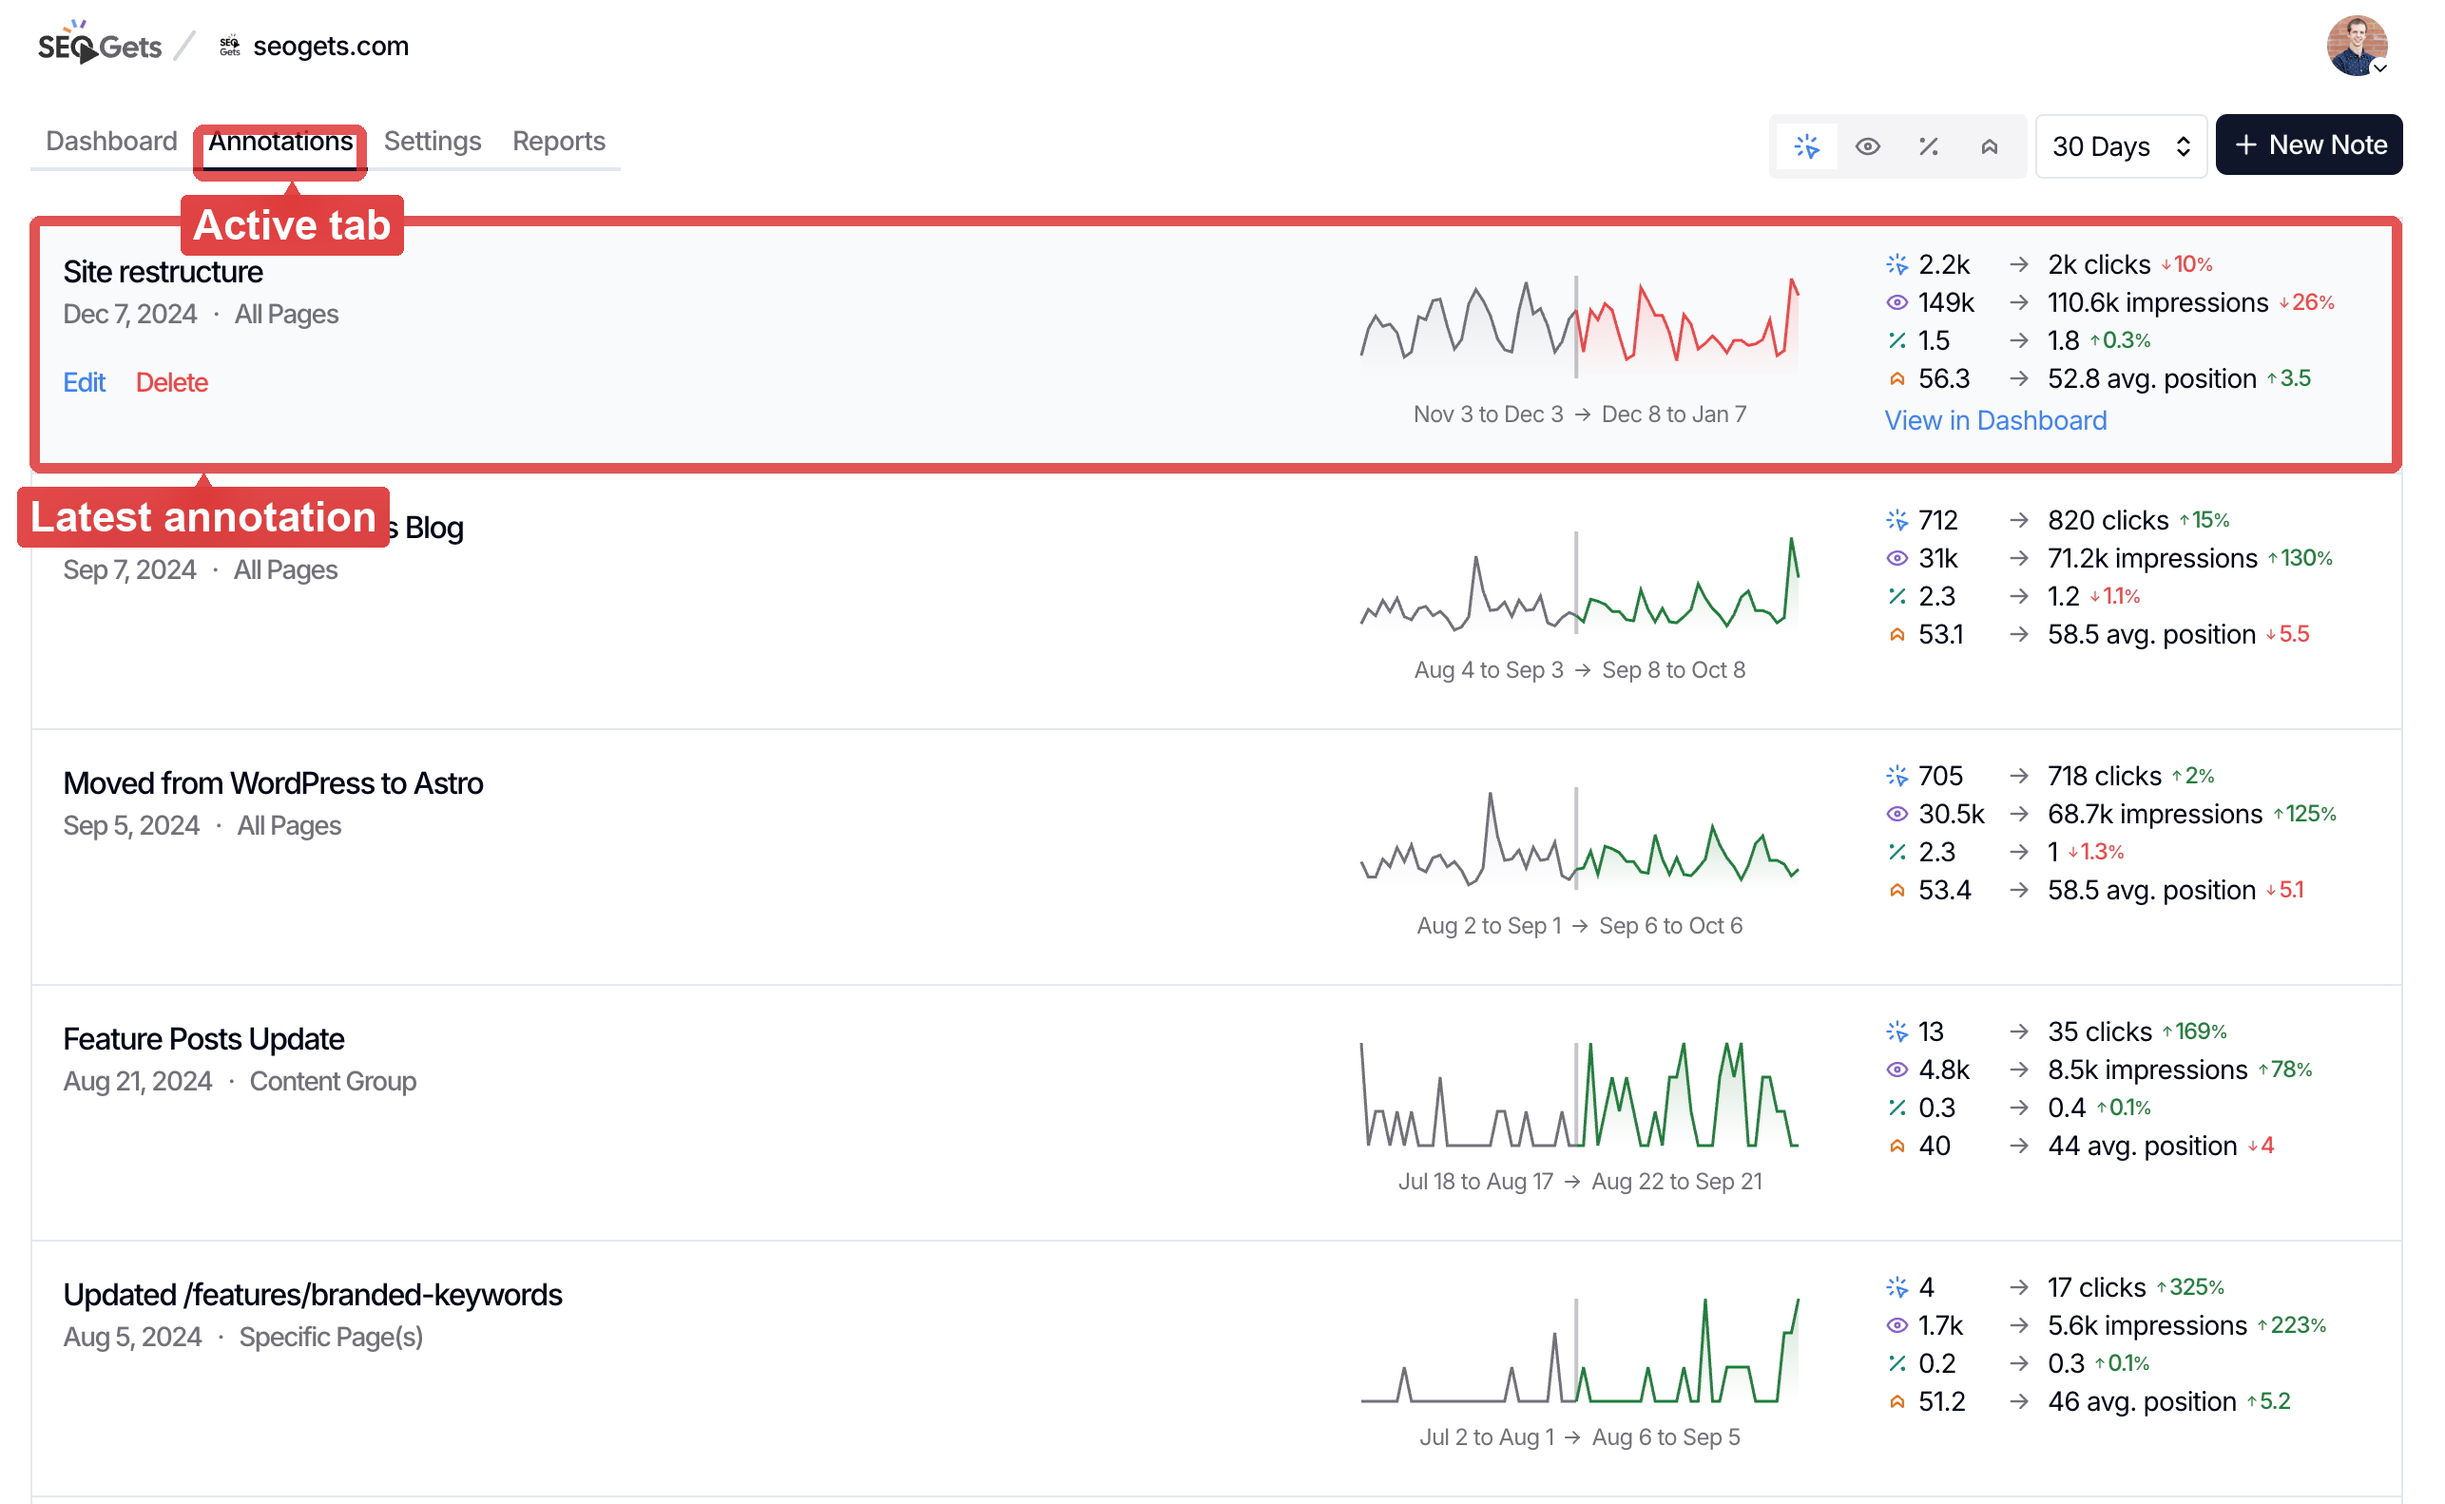
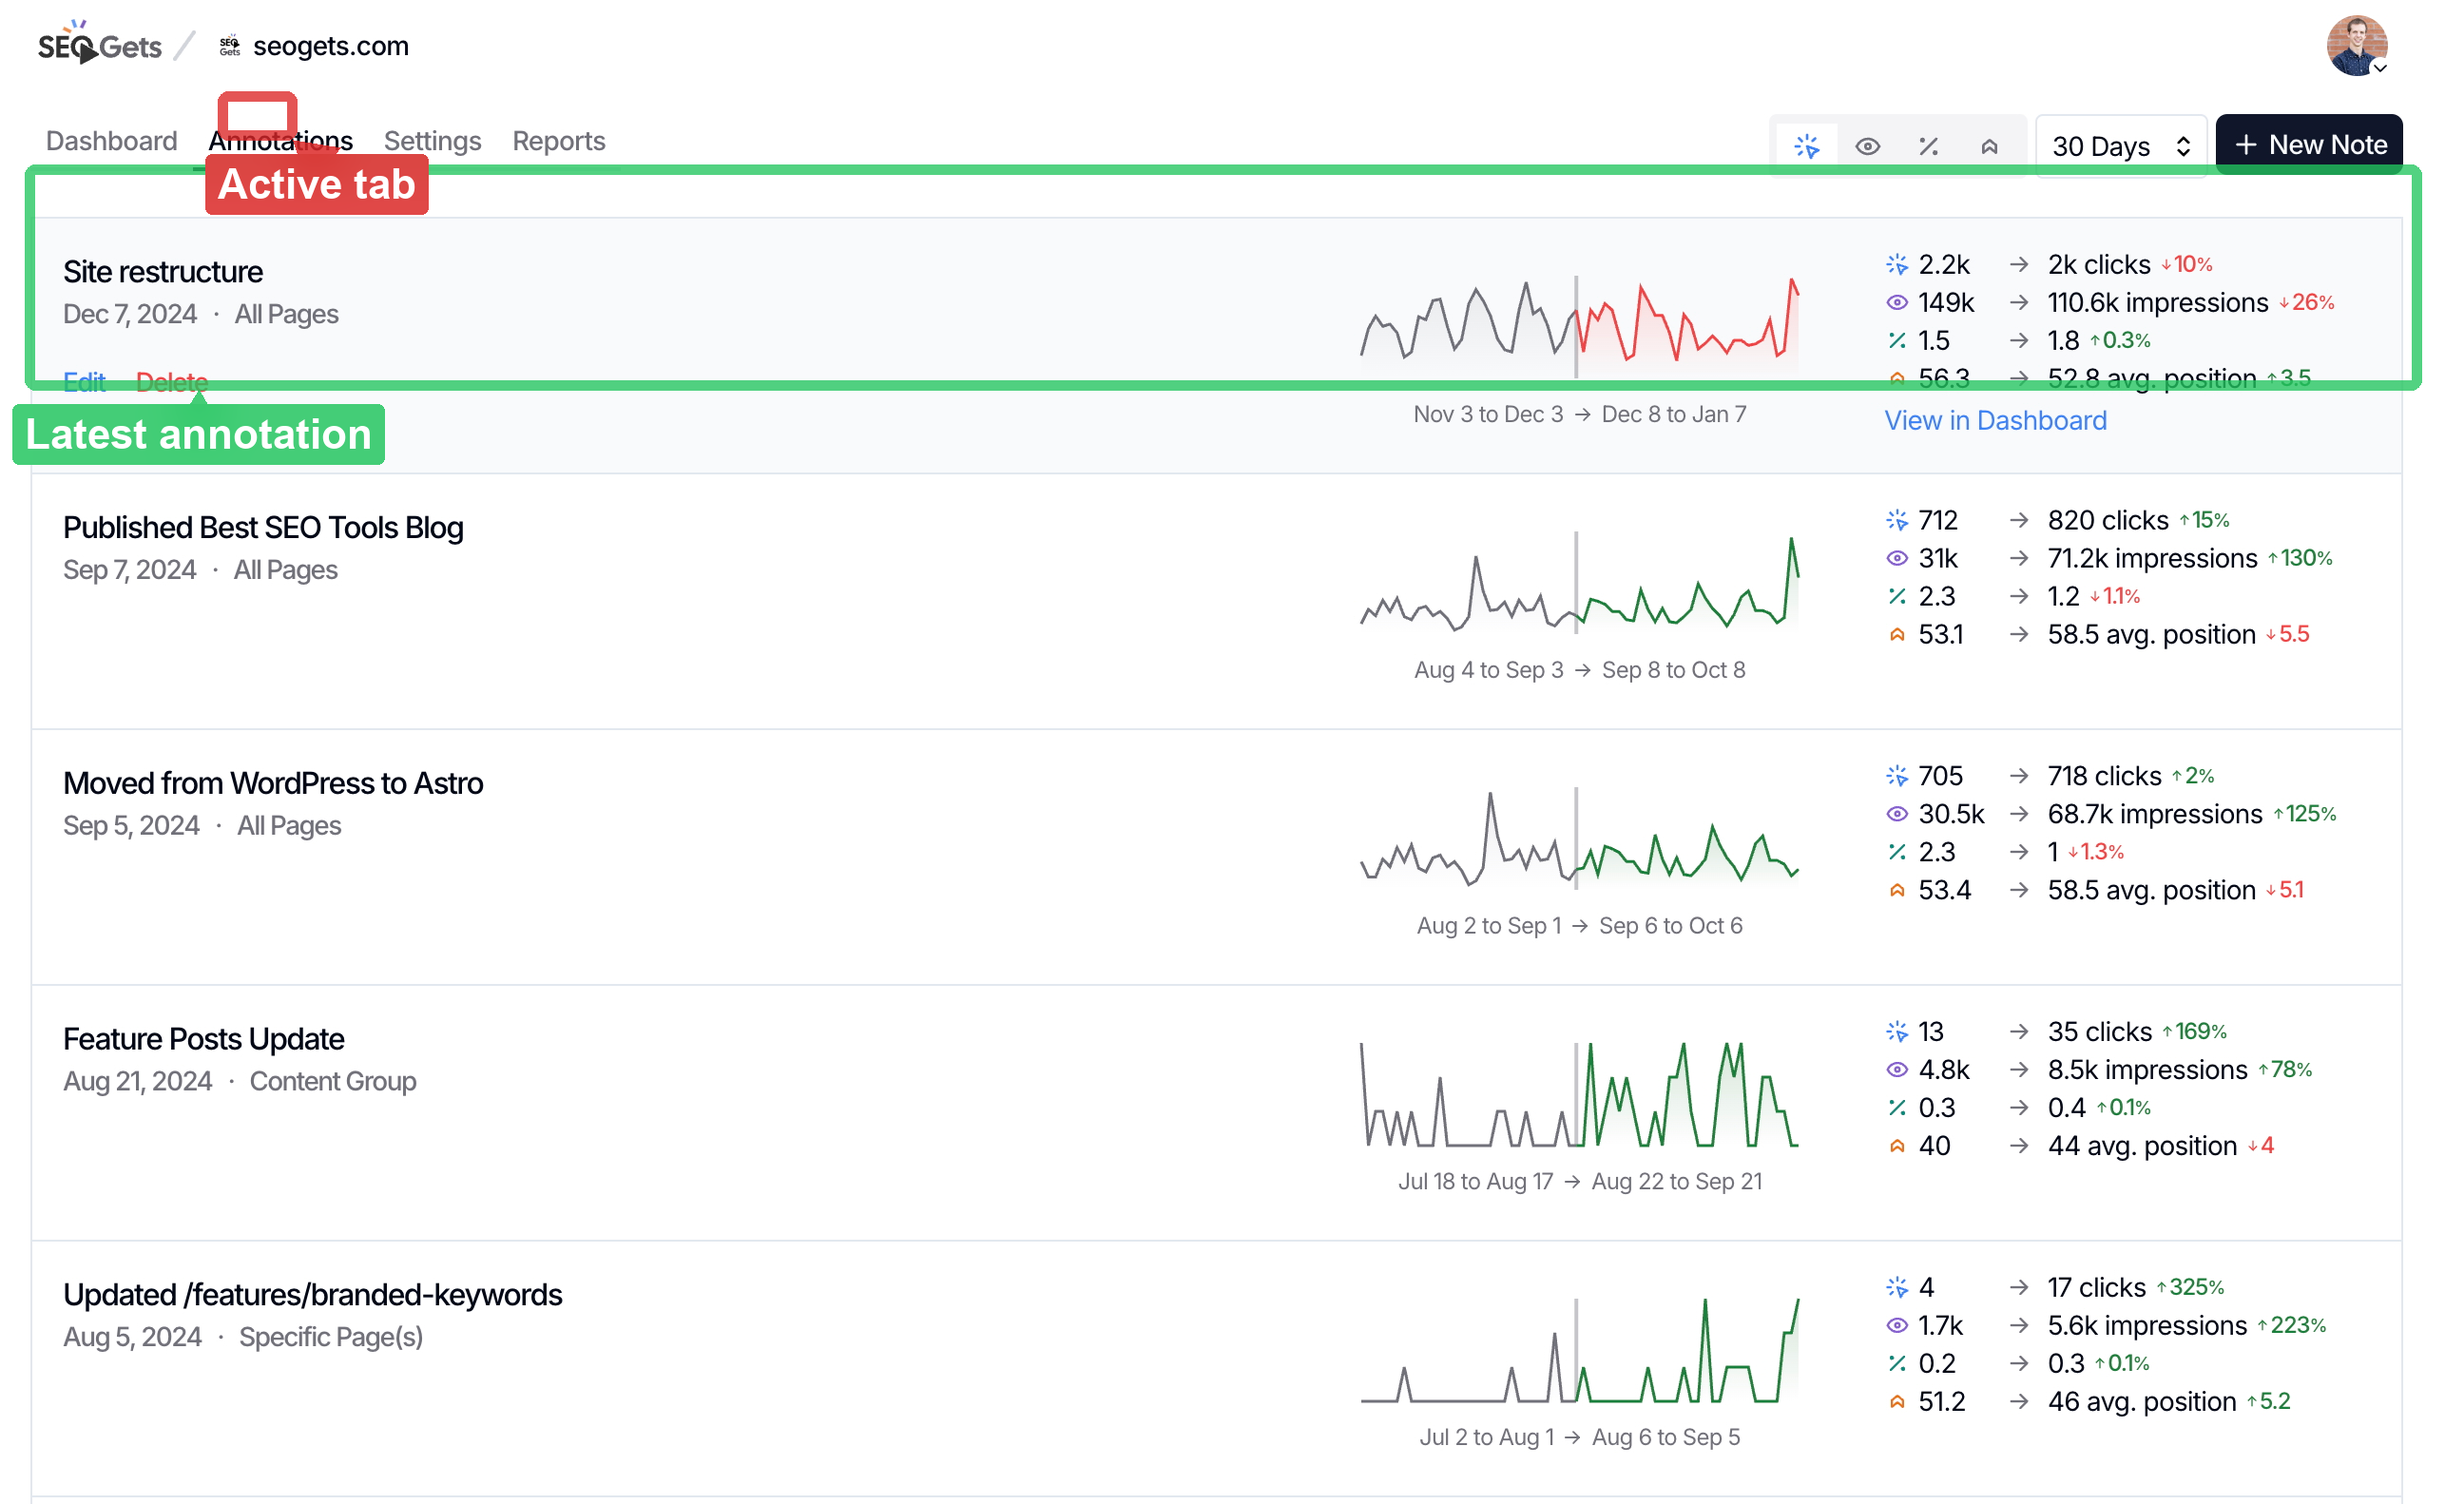
Reject giant bboxes; tighten vision prompts
Add a safeguard against huge, likely-hallucinated bounding boxes by introducing MAX_BBOX_AREA_FRACTION and _bbox_looks_hallucinated in marker/parser.py. Overhaul the vision system and refine prompts in marker/vision.py to enforce strict JSON-only output, precise normalized bbox rules, color/label conventions, and clearer locating/refinement instructions (including examples). Also add out.png and update test_2_annotated.png.

Changed region(s): [[0.0, 0.0619, 0.9953, 0.3717]]

diff --git a/marker/vision.py b/marker/vision.py
@@ -89,47 +89,101 @@ RESPONSE_SCHEMA = {
 
 SYSTEM_PROMPT = """You are a UI screenshot annotation assistant.
 
-You receive a screenshot and a numbered list of annotation requests written
-in free-form natural language. For each request you must:
+For each annotation request you receive, locate the target UI element in the
+screenshot and return its bounding box. The renderer draws the rectangle,
+arrow, and label automatically — your job is JUST to locate and tag.
 
-1. Locate the target UI element described in the request.
-2. Extract the user's desired LABEL TEXT — the short caption to render next
-   to the highlighted element. Look for explicit phrases like
-   "label 'Customer Details'", "labeled 'Activity Log'", "with caption ...",
-   or "tagged ...". If the user did not specify any label text, return null.
-3. Return the bbox in NORMALIZED coordinates [0.0, 1.0], where (0, 0) is
-   the top-left of the image and (1, 1) is the bottom-right. The renderer
-   converts these to absolute pixels.
+============================================================
+OUTPUT FORMAT — FOLLOW EXACTLY. NO EXCEPTIONS.
+============================================================
 
-PRECISION RULES — these matter as much as locating the right element:
+1. Return JSON ONLY. No prose, no markdown, no code fences, no commentary.
+2. Match the schema exactly. EVERY required field must appear in EVERY
+   annotation object, even when the value is null or an empty string.
+3. Return EXACTLY ONE annotation per request, in the original order.
+   request_index = the [N] number from the input. request_text = the request
+   string copied verbatim (do not paraphrase).
+4. Coordinates are NORMALIZED floats in the range [0.0, 1.0]. They are NOT
+   pixels, NOT percentages, NOT 0–100. (0, 0) is the top-left of the image
+   and (1, 1) is the bottom-right.
+   Example: a target whose pixel rect is (100, 50, 400, 200) on a 1000×800
+   image becomes {"x": 0.10, "y": 0.0625, "width": 0.40, "height": 0.25}.
+5. color MUST be one of:
+     (a) null  — preferred. Use this when the request did not request a
+         specific color. The renderer applies the default red.
+     (b) A 7-character hex string starting with "#", e.g. "#DC2626",
+         "#1F8FFF", "#22C55E".
+   NEVER a CSS color name ("red", "blue", "green"), NEVER an "rgb(...)"
+   string, NEVER three-digit shorthand like "#f00". Hex or null only.
+6. label_text MUST be one of:
+     (a) null  — when the request did not specify a caption.
+     (b) The exact short caption inside the user's quotes. Look for cues
+         like   label 'X' / labeled "X" / with caption X / tagged X.
+         Return ONLY the caption text — never the whole request sentence.
+   Keep it under ~40 characters when possible.
+7. not_found = true is the CORRECT answer whenever the target is missing,
+   ambiguous, or you are not confident you can locate it precisely. In that
+   case set bbox = null and put a one-line reason in notes
+   (e.g., "no element matching 'export button' is visible").
+   DO NOT GUESS. DO NOT return a near-full-image bbox as a placeholder.
+   DO NOT pick the closest-looking element. An empty annotation is far better
+   than a wrong one. Renderer will skip not_found items, so they cost
+   nothing.
+   When not_found is false, bbox MUST be a populated object that genuinely
+   contains the target.
+8. notes is always a string — use "" when not_found is false and you have
+   nothing to add.
+
+============================================================
+LOCATING THE TARGET — PRECISION RULES
+============================================================
 
 - Determine each of the four edges INDEPENDENTLY. Find the target's LEFT edge
   (smallest x), TOP edge (smallest y), RIGHT edge (largest x), BOTTOM edge
-  (largest y), then compute x = left, y = top, width = right - left,
-  height = bottom - top. Do not estimate x and width together — that produces
-  systematic horizontal offset.
-- For bordered elements (cards, panels, sections, table rows, modals): align
-  bbox edges WITH the visible border stroke. The drawn rectangle should sit
-  on top of the existing border line, not inside the content area and not
-  floating in the surrounding margin.
-- Include the element's full extent — header/title bar, padding inside the
-  border, and any pinned footer all belong inside the bbox.
+  (largest y). Then x = left, y = top, width = right - left,
+  height = bottom - top. Do NOT estimate x and width together — that
+  produces a systematic horizontal offset.
+- For bordered elements (cards, panels, sections, table rows, modals,
+  buttons): align bbox edges WITH the visible border stroke. The drawn
+  rectangle should land on top of the existing border line — not inside the
+  content area, not floating in the surrounding margin.
+- Include the element's full extent — header / title bar, internal padding,
+  pinned footer all belong inside the bbox.
 - For elements without a visible border (text labels, icons, plain regions):
-  align tightly to the outer bounds of the visible content; do not include
+  align tightly to the outer bounds of the visible content. Do not include
   surrounding empty space.
 - Sanity-check: the four corners of your bbox must land on the target's
-  corners, not in a neighbor or in white space.
+  corners, not in a neighbour or in white space.
 
-You DO NOT need to return arrow positions or label placement — the renderer
-computes those automatically from the bbox and image dimensions.
+============================================================
+EXAMPLE — input/output shape (for ONE request)
+============================================================
 
-If you cannot locate the target with reasonable confidence, set
-"not_found": true, leave bbox as null, and explain in "notes". Always set
-"color" to null unless the user explicitly requested a non-red color.
+Input request:
+  [0] red box on the customer info card, label 'Customer Details'
 
-Return only valid JSON matching the provided schema. Always include all
-requests in your response, in the original order, with the original
-request_index and request_text echoed back."""
+Correct response:
+{
+  "annotations": [
+    {
+      "request_index": 0,
+      "request_text": "red box on the customer info card, label 'Customer Details'",
+      "target_description": "Customer Information card on the right column of the page",
+      "label_text": "Customer Details",
+      "bbox": {"x": 0.52, "y": 0.18, "width": 0.42, "height": 0.12},
+      "color": null,
+      "not_found": false,
+      "notes": ""
+    }
+  ]
+}
+
+Notice: label_text is the quoted phrase only, not the whole sentence. color
+is null (request said "red" generically, which is the default — only return
+a hex string when the user names a non-default color like "blue card" or
+"green box"). All required fields are present. JSON only, no prose.
+
+Return ONE annotation per request, in input order, no extras, no omissions."""
 
 
 def build_user_prompt(queries: list[str], width: int, height: int) -> str:
@@ -191,27 +245,36 @@ def call_vision(
     return json.loads(content)
 
 
-REFINE_SYSTEM_PROMPT = """You will be shown a CROPPED region of a UI
-screenshot. The target element described in the user message is fully visible
-in this crop, surrounded by a small margin.
+REFINE_SYSTEM_PROMPT = """You are refining a bounding box on a CROPPED region
+of a UI screenshot. The target element named in the user message is fully
+visible inside this crop, with a small margin around it.
 
-Return a precise bbox for that target in NORMALIZED coordinates of the CROP
-(0–1, where (0,0) is the top-left of the crop and (1,1) is the bottom-right).
+OUTPUT FORMAT — FOLLOW EXACTLY:
 
-Rules:
+1. Return JSON ONLY. No prose, no markdown, no code fences.
+2. Schema:
+     {"x": <number>, "y": <number>, "width": <number>, "height": <number>}
+   All four fields required. No extra fields.
+3. Coordinates are NORMALIZED floats in [0.0, 1.0] of the CROP (NOT pixels,
+   NOT 0–100). (0, 0) is the top-left of the crop, (1, 1) is the
+   bottom-right of the crop.
+   Example: a target filling the middle 80% of the crop width and starting
+   10% from the top would be
+     {"x": 0.10, "y": 0.10, "width": 0.80, "height": 0.30}.
+4. width and height must be > 0.
+
+LOCATING RULES:
+
 - Determine the four edges INDEPENDENTLY: find the target's left edge, top
-  edge, right edge, bottom edge. Then x = left, y = top, width = right - left,
-  height = bottom - top.
-- For bordered elements (cards, panels, sections, rows): align to the visible
-  border stroke. The bbox should sit on the existing border line, not inside
-  the content area and not in the surrounding margin.
-- Include the full element — header/title bar, internal padding, and any
-  footer all belong inside the bbox.
+  edge, right edge, bottom edge. Then x = left, y = top,
+  width = right - left, height = bottom - top.
+- For bordered elements (cards, panels, sections, rows): align to the
+  visible border stroke. The bbox should sit on the existing border line —
+  not inside the content area, not in the surrounding margin.
+- Include the full element — header / title bar, internal padding, footer.
 - Do not include surrounding empty space outside the element.
 - Sanity-check: the four corners of the bbox must land on the target's
-  corners.
-
-Return only JSON: {"x": ..., "y": ..., "width": ..., "height": ...}."""
+  corners."""
 
 
 _REFINE_RESPONSE_SCHEMA = {

diff --git a/marker/parser.py b/marker/parser.py
@@ -15,6 +15,12 @@ def _clamp(v: int, lo: int, hi: int) -> int:
     return max(lo, min(hi, v))
 
 
+# Bboxes covering a larger share of the image than this are almost always
+# "I have no idea, here's the whole thing" hallucinations. Treat them as
+# not_found rather than drawing a giant rectangle over the screenshot.
+MAX_BBOX_AREA_FRACTION = 0.90
+
+
 def _to_pixels_bbox(b: NormalizedBbox, width: int, height: int) -> Bbox | None:
     x = _clamp(round(b.x * width), 0, width - 1)
     y = _clamp(round(b.y * height), 0, height - 1)
@@ -23,6 +29,13 @@ def _to_pixels_bbox(b: NormalizedBbox, width: int, height: int) -> Bbox | None:
     if w <= 0 or h <= 0:
         return None
     return Bbox(x=x, y=y, width=w, height=h)
+
+
+def _bbox_looks_hallucinated(bbox: Bbox, image_w: int, image_h: int) -> bool:
+    image_area = image_w * image_h
+    if image_area <= 0:
+        return False
+    return (bbox.width * bbox.height) / image_area >= MAX_BBOX_AREA_FRACTION
 
 
 def _resolve_one(raw: RawAnnotation, width: int, height: int) -> Annotation:
@@ -40,6 +53,16 @@ def _resolve_one(raw: RawAnnotation, width: int, height: int) -> Annotation:
     bbox = _to_pixels_bbox(raw.bbox, width, height) if raw.bbox else None
     not_found = bbox is None
     notes = raw.notes
+
+    if bbox is not None and _bbox_looks_hallucinated(bbox, width, height):
+        not_found = True
+        bbox = None
+        pct = round(MAX_BBOX_AREA_FRACTION * 100)
+        notes = (
+            f"Model returned a bbox covering >={pct}% of the image — "
+            "treating as not found to avoid drawing junk over the screenshot."
+        )
+
     if not_found and not notes:
         notes = "Model returned no usable bbox."
 
